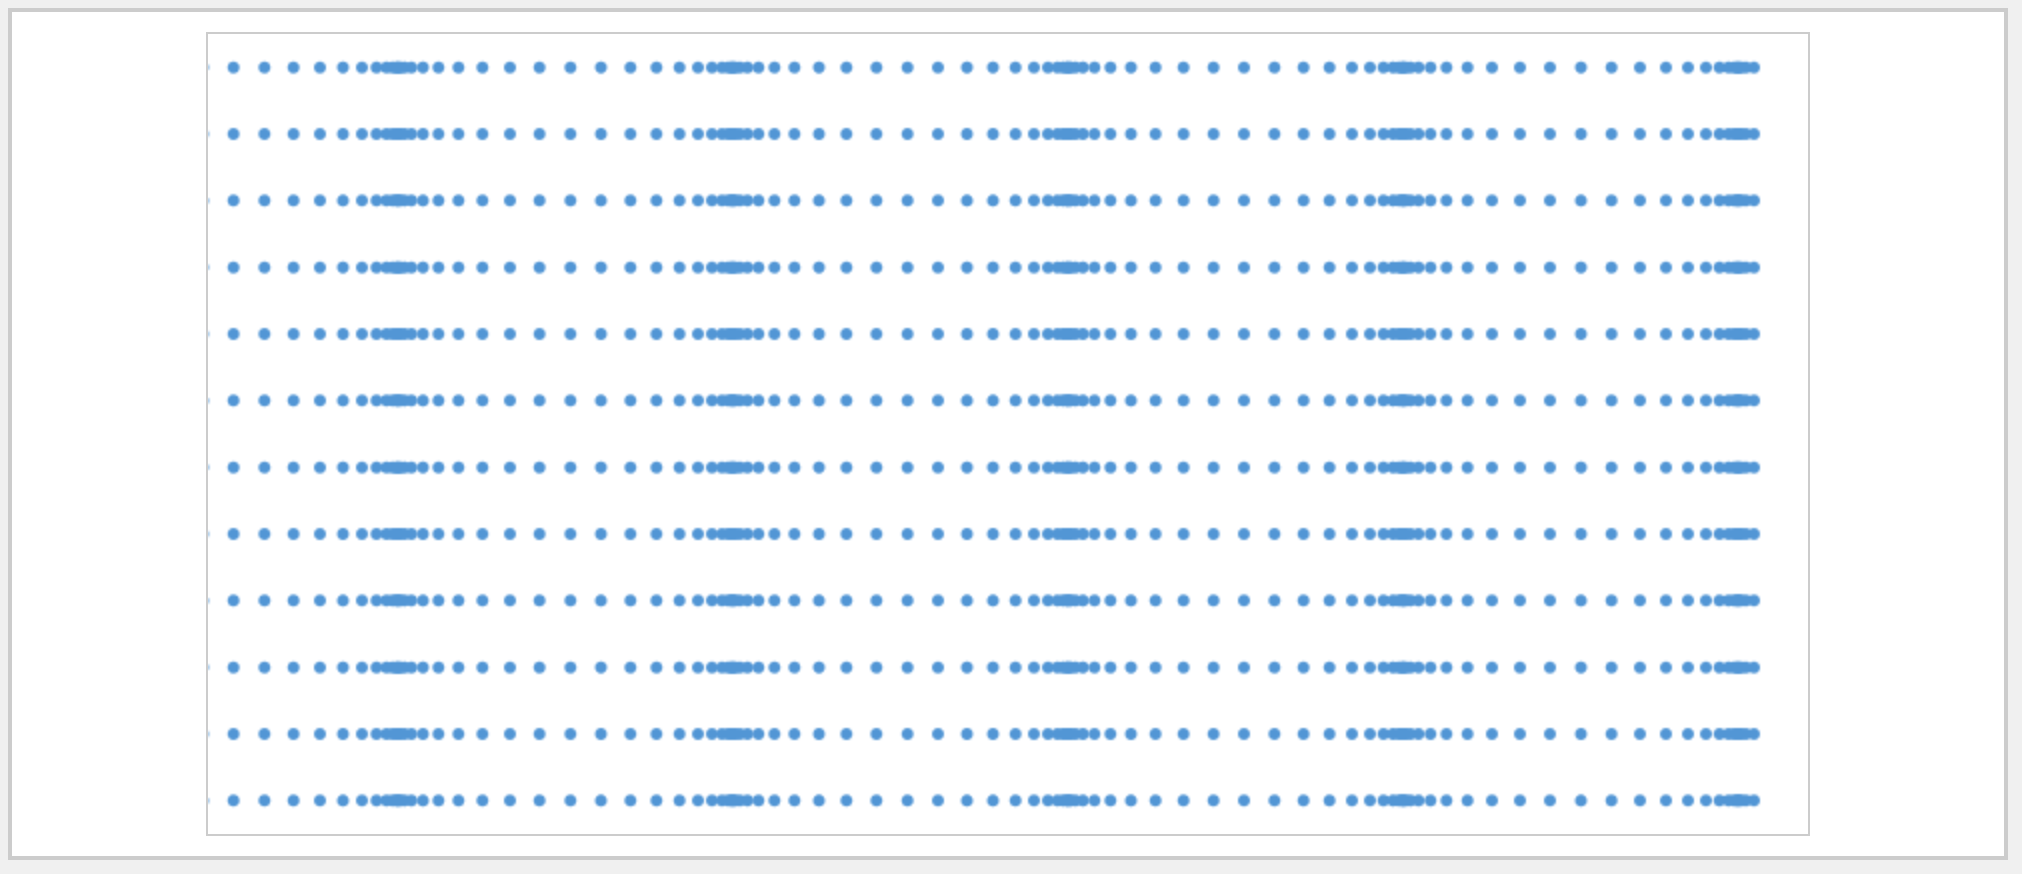
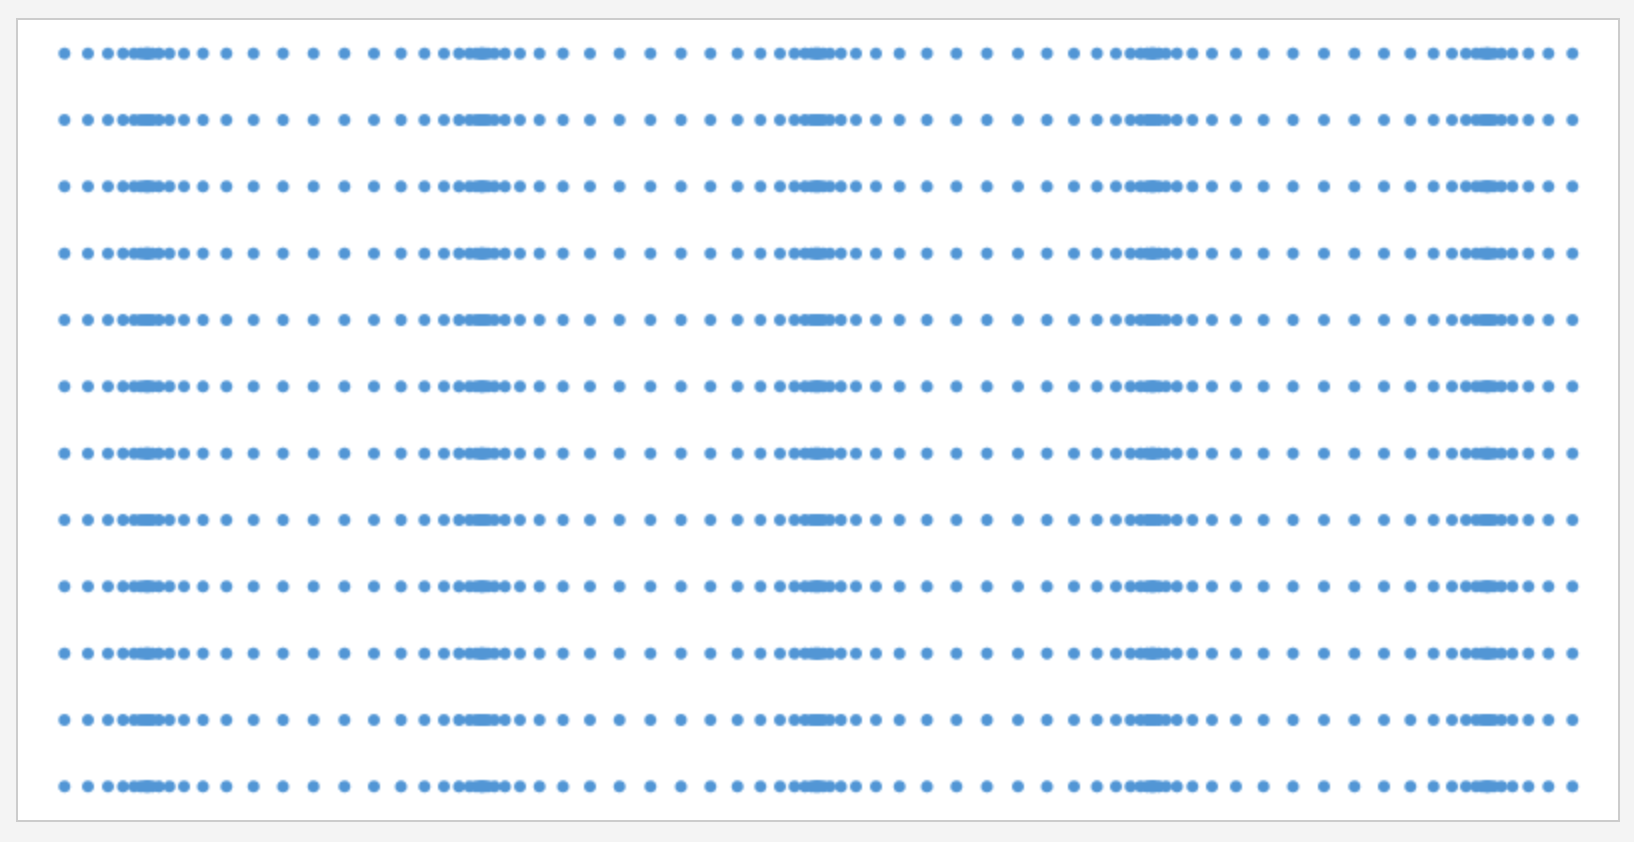
24/09/03 00:23:57 auto push

diff --git a/portfolio/SoundWave/script.js b/portfolio/SoundWave/script.js
@@ -7,8 +7,8 @@ canvas.width = 800;
 canvas.height = 400;
 
 let particles = [];
-const waveLength = 50;
-const waveAmplitude = waveLength / 2;
+const waveLength = 100;
+const waveAmplitude = waveLength / 5;
 const rows = 12;
 const cols = 100;
 const particleCount = rows * cols;
@@ -33,11 +33,18 @@ function animateParticles() {
     const waveFrequency = frequencySlider.value;
     const speed = 50;
     const t = frame / speed;
+    
     particles.forEach((particle, index) => {
+        let dot_radius = 3;
+        let dot_color = '#34a0bd';
         particle.x = particle.originalX + Math.sin(waveFrequency * (t - Math.floor(index/rows) / 10)) * waveAmplitude;
         ctx.beginPath();
-        ctx.arc(particle.x, particle.y, 3, 0, Math.PI * 2, false);
-        ctx.fillStyle = '#3498db';
+        if (600 <= index && index < 612) {
+            dot_radius = 5;
+            dot_color = '#dd4a55';
+        }
+        ctx.arc(particle.x, particle.y, dot_radius, 0, Math.PI * 2, false);
+        ctx.fillStyle = dot_color;
         ctx.fill();
         ctx.closePath();
     });

diff --git a/portfolio/SoundWave/index.html b/portfolio/SoundWave/index.html
@@ -12,9 +12,7 @@
     </a>
     <div id="container">
         <h1>聲波在空氣分子中的縱波振動</h1>
-        <div id="canvasWrapper">
-            <canvas id="waveCanvas"></canvas>
-        </div>
+        <canvas id="waveCanvas"></canvas>
         <div class="slider-container">
             <label for="frequencySlider">Wave Frequency: </label>
             <input type="range" id="frequencySlider" min="1" max="7" step="1" value="3">

diff --git a/portfolio/SoundWave/style.css b/portfolio/SoundWave/style.css
@@ -1,11 +1,12 @@
 body {
     font-family: Arial, sans-serif;
-    background-color: #f0f0f0;
-    margin: 0;
     display: flex;
-    justify-content: center;
+    flex-direction: column;
     align-items: center;
+    justify-content: center;
     height: 100vh;
+    margin: 0;
+    background-color: #f4f4f4;
 }
 
 .back-button {
@@ -38,7 +39,6 @@ body {
 }
 
 h1 {
-    color: #333;
     margin-bottom: 20px;
 }
 
